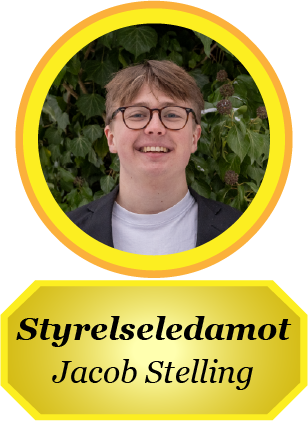
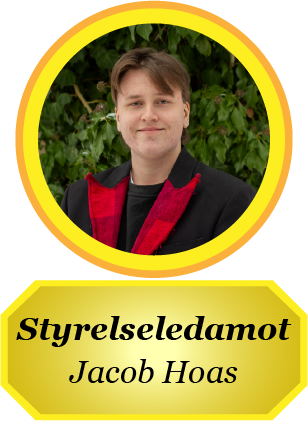
Portrait updates

Changed region(s): [[0.1169, 0.0309, 0.8766, 0.6176], [0.1753, 0.8337, 0.8182, 0.9264]]

diff --git a/lib/screens/nollning/nolleguide_26/guild.dart b/lib/screens/nollning/nolleguide_26/guild.dart
@@ -8,7 +8,6 @@ import 'package:fsek_mobile/screens/nollning/nolleguide_26/portraitBuilder.dart'
 import 'package:fsek_mobile/screens/nollning/nolleguide_26/wallFactory.dart';
 import 'package:fsek_mobile/screens/nollning/nolleguide_26/overlay.dart';
 
-
 class GuildPage extends StatefulWidget {
   @override
   _GuildPageState createState() => _GuildPageState();
@@ -81,7 +80,6 @@ class _GuildPageState extends State<GuildPage> {
     final String fosetTitle = title("foset");
     final String frejaTitle = title("freja", isLocale: false);
     final String jubileeTitle = title("jubilee");
-    final String libuTitle = title("libu");
     final String organisationTitle = title("organisation", isLocale: false);
     final String processionTitle = title("procession");
     final String samvetetTitle = title("samvetet");
@@ -190,6 +188,20 @@ class _GuildPageState extends State<GuildPage> {
         PortraitData(imagePath: styrelse4Portrait, flex: doublePortraitFlex,
             onTap: () => pushNavigator(index: 10, imagePath: styrelse4Portrait)),
       ]),
+      Image.asset(accountingTitle),
+      PortraitRow(portraits: [
+        PortraitData(imagePath: treasurerPortrait, flex: largePortraitFlex,
+            onTap: () => pushNavigator(index: 27, imagePath: treasurerPortrait)),
+      ]),
+      PortraitRow(portraits: [
+        PortraitData(imagePath: bookPortrait, flex: smallPortraitFlex,
+            onTap: () => pushNavigator(index: 28, imagePath: bookPortrait)),
+      ]),
+      Image.asset(serviceTitle),
+      PortraitRow(portraits: [
+        PortraitData(imagePath: secretaryPortrait, flex: largePortraitFlex,
+            onTap: () => pushNavigator(index: 15, imagePath: secretaryPortrait)),
+      ]),
       Image.asset(studentcouncilTitle),
       PortraitRow(portraits: [
         PortraitData(imagePath: eduPortrait, flex: largePortraitFlex,
@@ -210,11 +222,6 @@ class _GuildPageState extends State<GuildPage> {
         PortraitData(imagePath: jubileePortrait, flex: largePortraitFlex,
             onTap: () => pushNavigator(index: 14, imagePath: jubileePortrait)),
       ]),
-      Image.asset(serviceTitle),
-      PortraitRow(portraits: [
-        PortraitData(imagePath: secretaryPortrait, flex: largePortraitFlex,
-            onTap: () => pushNavigator(index: 15, imagePath: secretaryPortrait)),
-      ]),
       Image.asset(truthTitle),
       PortraitRow(portraits: [
         PortraitData(imagePath: truthPortrait, flex: largePortraitFlex,
@@ -229,9 +236,8 @@ class _GuildPageState extends State<GuildPage> {
         PortraitData(imagePath: samvetetPortrait, flex: largePortraitFlex,
             onTap: () => pushNavigator(index: 18, imagePath: samvetetPortrait)),
       ]),
-      Image.asset(libuTitle),
       PortraitRow(portraits: [
-        PortraitData(imagePath: libuPortrait, flex: largePortraitFlex,
+        PortraitData(imagePath: libuPortrait, flex: smallPortraitFlex,
             onTap: () => pushNavigator(index: 19, imagePath: libuPortrait)),
       ]),
       Image.asset(facilitiesTitle),
@@ -263,15 +269,6 @@ class _GuildPageState extends State<GuildPage> {
       PortraitRow(portraits: [
         PortraitData(imagePath: frejaPortrait, flex: largePortraitFlex,
             onTap: () => pushNavigator(index: 26, imagePath: frejaPortrait)),
-      ]),
-      Image.asset(accountingTitle),
-      PortraitRow(portraits: [
-        PortraitData(imagePath: treasurerPortrait, flex: largePortraitFlex,
-            onTap: () => pushNavigator(index: 27, imagePath: treasurerPortrait)),
-      ]),
-      PortraitRow(portraits: [
-        PortraitData(imagePath: bookPortrait, flex: smallPortraitFlex,
-            onTap: () => pushNavigator(index: 28, imagePath: bookPortrait)),
       ]),
       Image.asset(cafeTitle),
       PortraitRow(portraits: [
